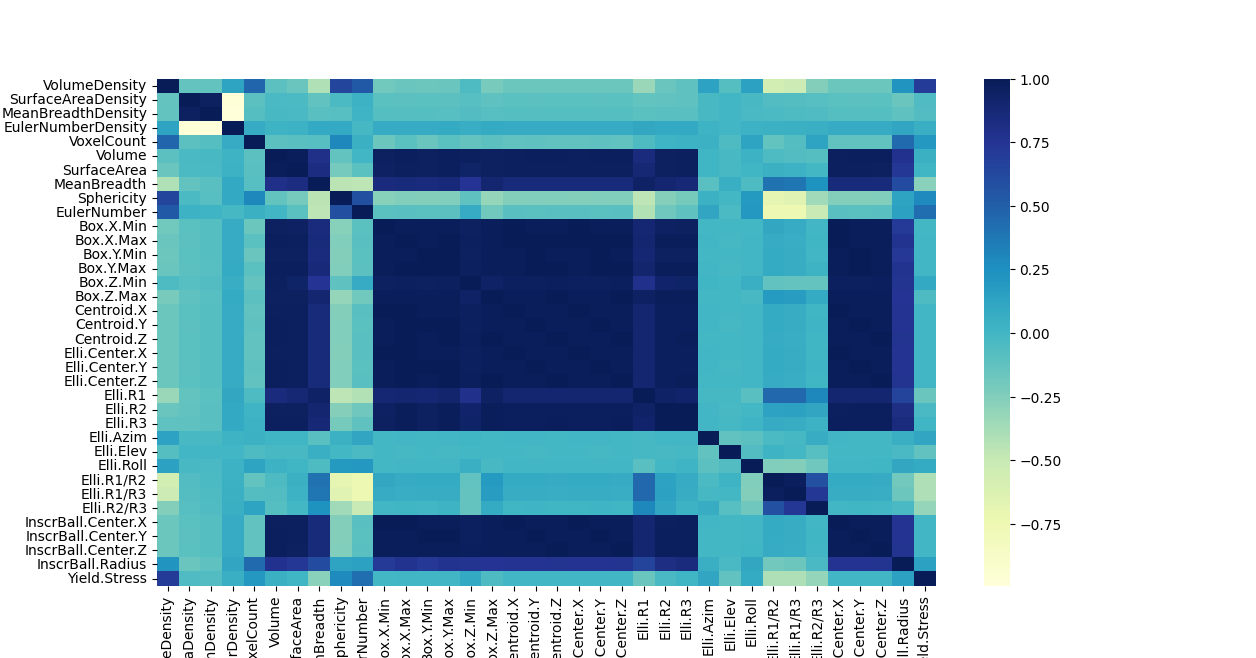
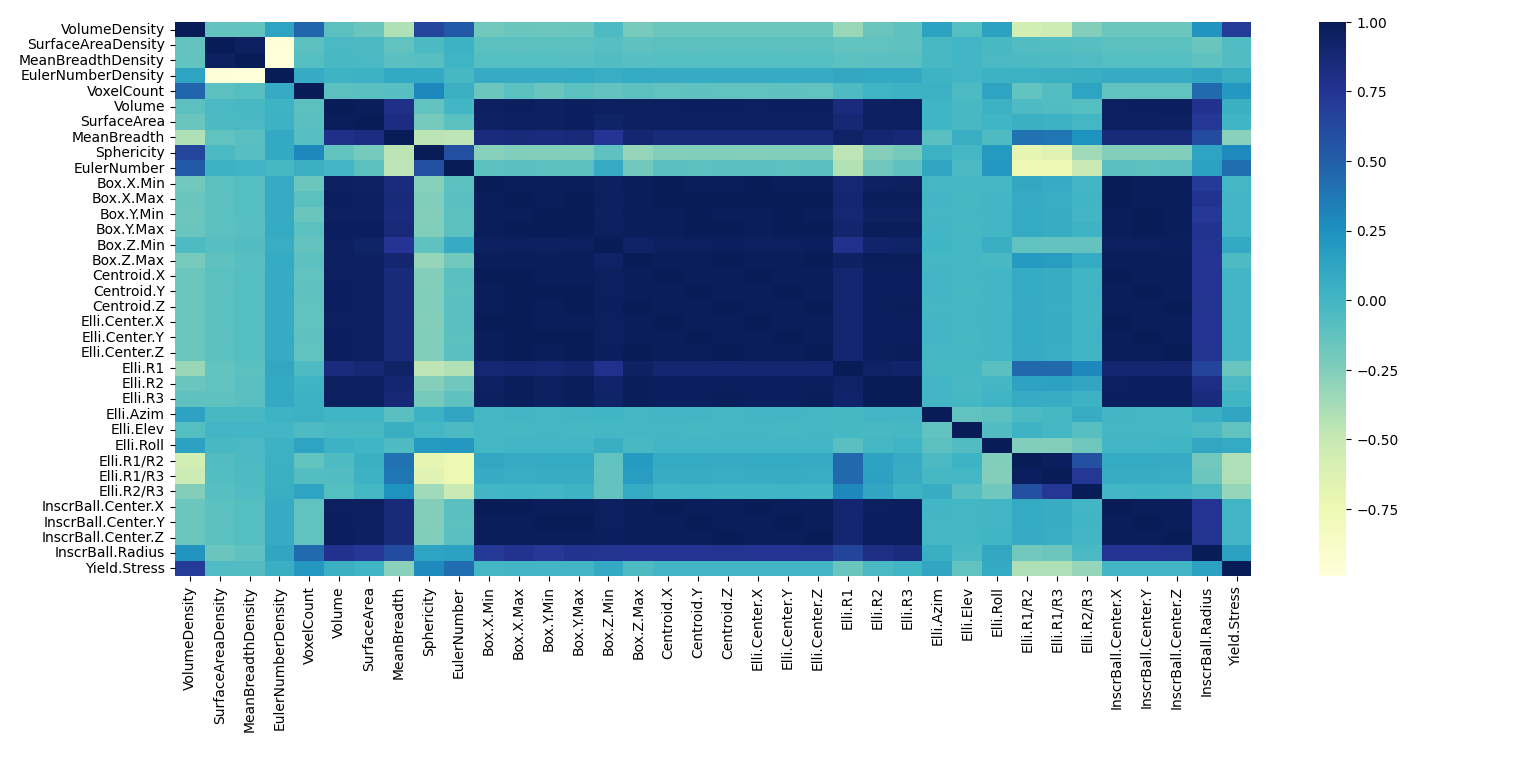
Added some code. Correlation matrix plot now better

diff --git a/GPs_Sklearn_our_dataset.py b/GPs_Sklearn_our_dataset.py
@@ -15,9 +15,10 @@ import seaborn as sns
 npoints_obs = 676  # 676 datapoints in total
 dataframe1 = pd.read_excel(r"merged_data1.xlsx")
 
+# Flags
 two_features = False
-multiple_features = not(two_features)
-corr_matrix_flag = False 
+multiple_features = False #not(two_features)
+corr_matrix_flag = True
 
 if two_features:
     npoints_pred = 50 # Number of prediction points in 1D 
@@ -179,7 +180,8 @@ if corr_matrix_flag:
     sns.heatmap(corr_matrix, annot=False, cmap="YlGnBu")
 
     print(corr_matrix["Yield.Stress"].sort_values(ascending=False))
-
+    
+    plt.tight_layout()
     plt.show()
 
 '''
